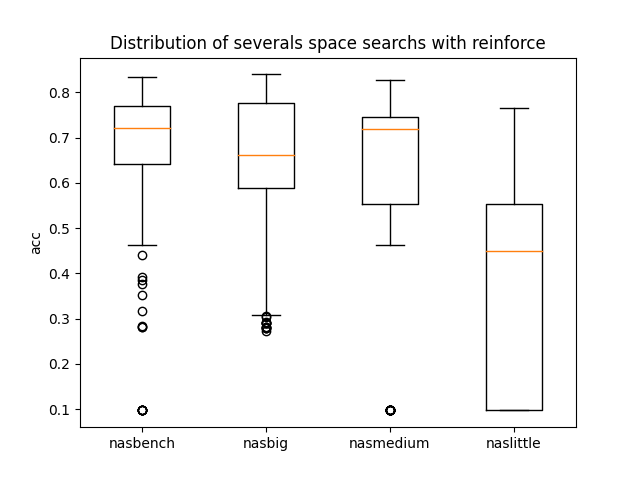
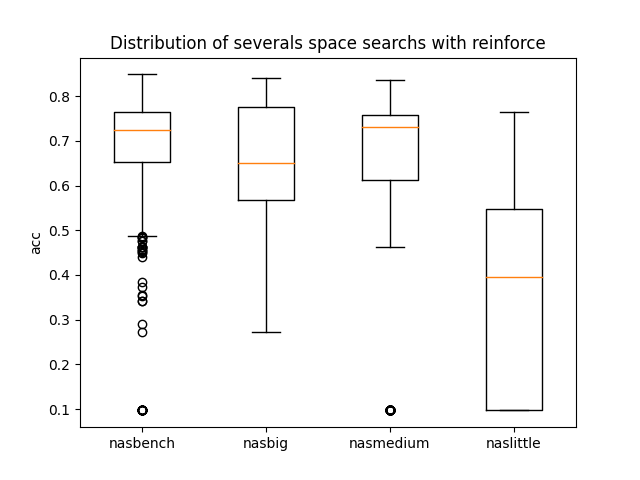
update bar

diff --git a/request.py b/request.py
@@ -15,7 +15,7 @@ import plot
 import os
 NATS_BENCH_TSS_PATH = "nats_bench_data/NATS-tss-v1_0-3ffb9-simple"
 OUT_DIR = "./out/"
-NB_NET = 50
+NB_NET = 20
 EPOCHS = 12
 api = create(NATS_BENCH_TSS_PATH, 'tss', fast_mode=True, verbose=False)
 
@@ -137,6 +137,7 @@ def run(s_space, fn, dataset, predictor, benchmark):
 def get_info(models, type, dataset):
     data = np.array(models)
     data = data.reshape(-1)
+
     stat = [api.get_cost_info(model, dataset)[type] for model in data]
 
     return stat
@@ -148,12 +149,13 @@ if __name__ == '__main__':
 
     #reinforce_nasbench(seeds, 'cifar10')
     reinforce_bench_c10 = run(s_space='nasbench', fn='reinforce', dataset='cifar10', predictor=None, benchmark=True)
+    print(reinforce_bench_c10[0])
     #plot.box_plot([reinforce_bench_c10], ['nasbench'], OUT_DIR,
                   #"Distribution of severals space searchs with reinforce", fn='reinforce')
     #reinforce_nasbench_naswot(seeds, 'cifar10')
     #run(s_space='nasbench', fn='reinforce', dataset='cifar10', predictor='naswot', benchmark=False)
     #random_nasbench(seeds, 'cifar10')
-    random_bench_c10 = run(s_space='nasbench', fn='randomsearch', dataset='cifar10', predictor=None, benchmark=True)
+    #random_bench_c10 = run(s_space='nasbench', fn='randomsearch', dataset='cifar10', predictor=None, benchmark=True)
     #random_nasbench_naswot(seeds, 'cifar10')
     #run(s_space='nasbench', fn='randomsearch', dataset='cifar10', predictor='naswot', benchmark=False)
 
@@ -164,7 +166,7 @@ if __name__ == '__main__':
     #reinforce_nasmedium_naswot(seeds, 'cifar10')
     #run(s_space='nasmedium', fn='reinforce', dataset='cifar10', predictor='naswot', benchmark=False)
     #random_nasmedium(seeds, 'cifar10')
-    random_medium_c10 = run(s_space='nasmedium', fn='randomsearch', dataset='cifar10', predictor=None, benchmark=True)
+    #random_medium_c10 = run(s_space='nasmedium', fn='randomsearch', dataset='cifar10', predictor=None, benchmark=True)
     #random_nasmedium_naswot(seeds, 'cifar10')
     #run(s_space='nasmedium', fn='randomsearch', dataset='cifar10', predictor='naswot', benchmark=False)
 
@@ -173,16 +175,17 @@ if __name__ == '__main__':
     #reinforce_naslittle_naswot(seeds, 'cifar10')
     #run(s_space='naslittle', fn='reinforce', dataset='cifar10', predictor='naswot', benchmark=False)
     #random_naslittle(seeds, 'cifar10')
-    random_little_c10 = run(s_space='naslittle', fn='randomsearch', dataset='cifar10', predictor=None, benchmark=True)
+    #random_little_c10 = run(s_space='naslittle', fn='randomsearch', dataset='cifar10', predictor=None, benchmark=True)
     #random_naslittle_naswot(seeds, 'cifar10')
     #run(s_space='naslittle', fn='randomsearch', dataset='cifar10', predictor='naswot', benchmark=False)
 
     reinforce_big_c10 = run(s_space='nasbig', fn='reinforce', dataset='cifar10', predictor=None, benchmark=True)
-    random_big_c10 = run(s_space='nasbig', fn='randomsearch', dataset='cifar10', predictor=None, benchmark=True)
+    #random_big_c10 = run(s_space='nasbig', fn='randomsearch', dataset='cifar10', predictor=None, benchmark=True)
 
-    p = [get_info(data[0], "params", "cifar10") for data in [reinforce_bench_c10, reinforce_medium_c10, reinforce_big_c10, reinforce_little_c10]]
-    plot.bar_plot(p, ["bench", "medium","big", "little"], OUT_DIR, "Wsh la cité", "reinforce")
-    plot.box_plot([reinforce_bench_c10[1], reinforce_big_c10[1], reinforce_medium_c10[1], reinforce_little_c10[1]], ['nasbench', 'nasbig', 'nasmedium', 'naslittle'], OUT_DIR,
+    #{'flops', 'params''latency', 'T-train@epoch', 'T-train@total', 'T-ori-test@epoch', 'T-ori-test@total'}
+    p = [get_info(data[0], "params", "cifar10") for data in [reinforce_bench_c10, reinforce_big_c10, reinforce_medium_c10, reinforce_little_c10]]
+    plot.bar_plot(p, ["bench", "big", "medium", "little"], OUT_DIR, "Wsh la cité", "reinforce")
+    """plot.box_plot([reinforce_bench_c10[1], reinforce_big_c10[1], reinforce_medium_c10[1], reinforce_little_c10[1]], ['nasbench', 'nasbig', 'nasmedium', 'naslittle'], OUT_DIR,
                   "Distribution of severals space searchs with reinforce", fn='reinforce')
     plot.box_plot([random_bench_c10[1], random_big_c10[1], random_medium_c10[1], random_little_c10[1]], ['nasbench', 'nasbig', 'nasmedium', 'naslittle'], OUT_DIR,
-                  "Distribution of severals space searchs with random search", fn='randomsearch')
+                  "Distribution of severals space searchs with random search", fn='randomsearch')"""

diff --git a/controller.py b/controller.py
@@ -208,7 +208,7 @@ class Controller():
         return  l_models, l_valid, l_iter, delta_time
 
     def arch_to_str(self,operations):
-        return self.search_space.arch_to_str(operations)
+        return self.search_space.get_nasbench_unique(operations)
 
 
     def _init_ss(self, ss) -> dict:

diff --git a/plot.py b/plot.py
@@ -68,5 +68,7 @@ def box_plot(data, xticks, path, title, fn):
     plt.show()
 
 def bar_plot(data, xticks, path, title, fn):
+    print([np.average(d) for d in data])
+    print([np.std(d) for d in data])
     plt.bar(xticks, [np.average(d) for d in data])
     plt.show()

diff --git a/search_spaces/nasbench.py b/search_spaces/nasbench.py
@@ -59,3 +59,6 @@ class NasBench(AbsSS):
 
     def arch_to_str(self, operations):
         return '|{}~0|+|{}~0|{}~1|+|{}~0|{}~1|{}~2|'.format(*operations)
+
+    def get_nasbench_unique(self, operations):
+        return self.arch_to_str(operations)
